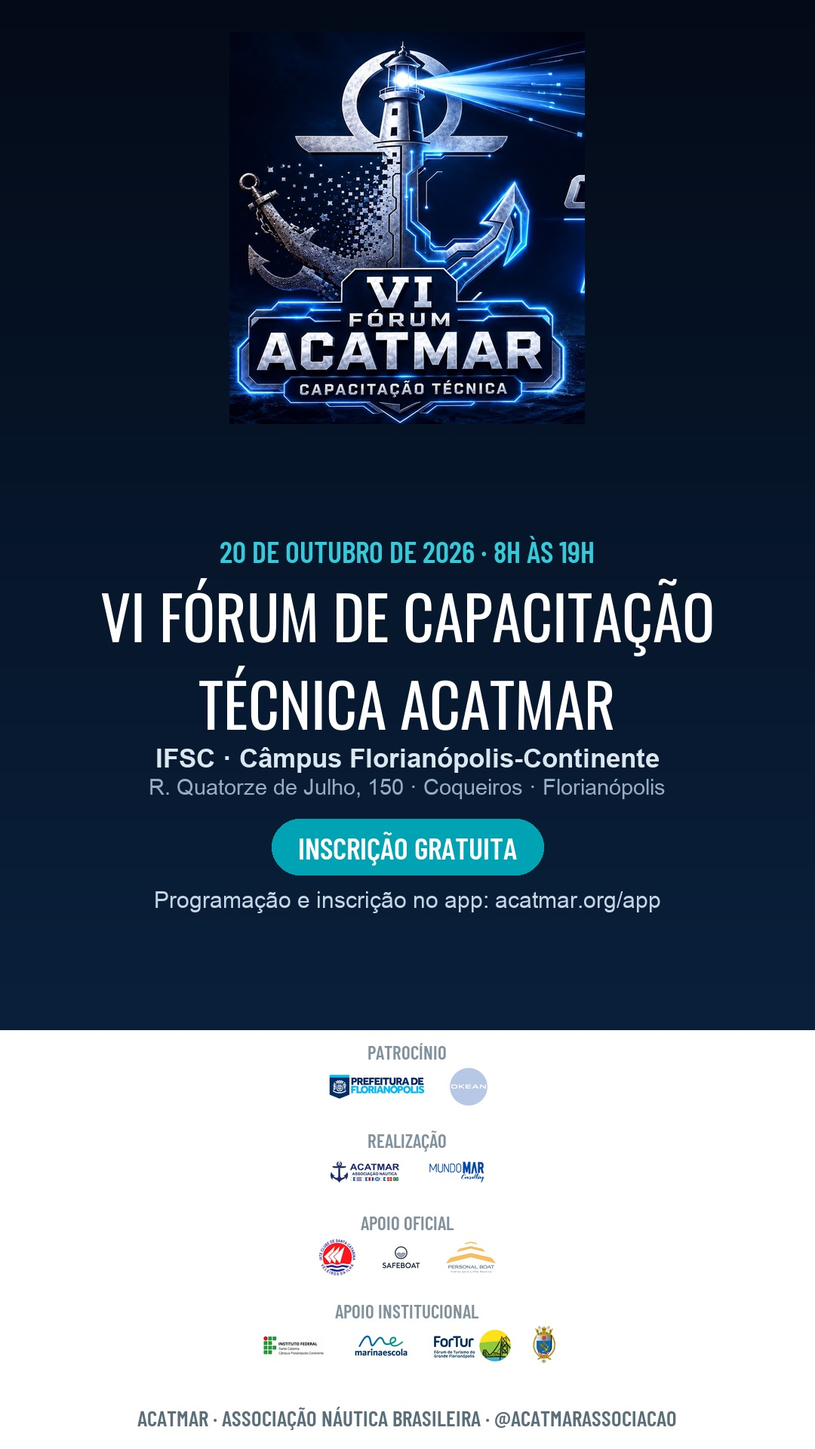
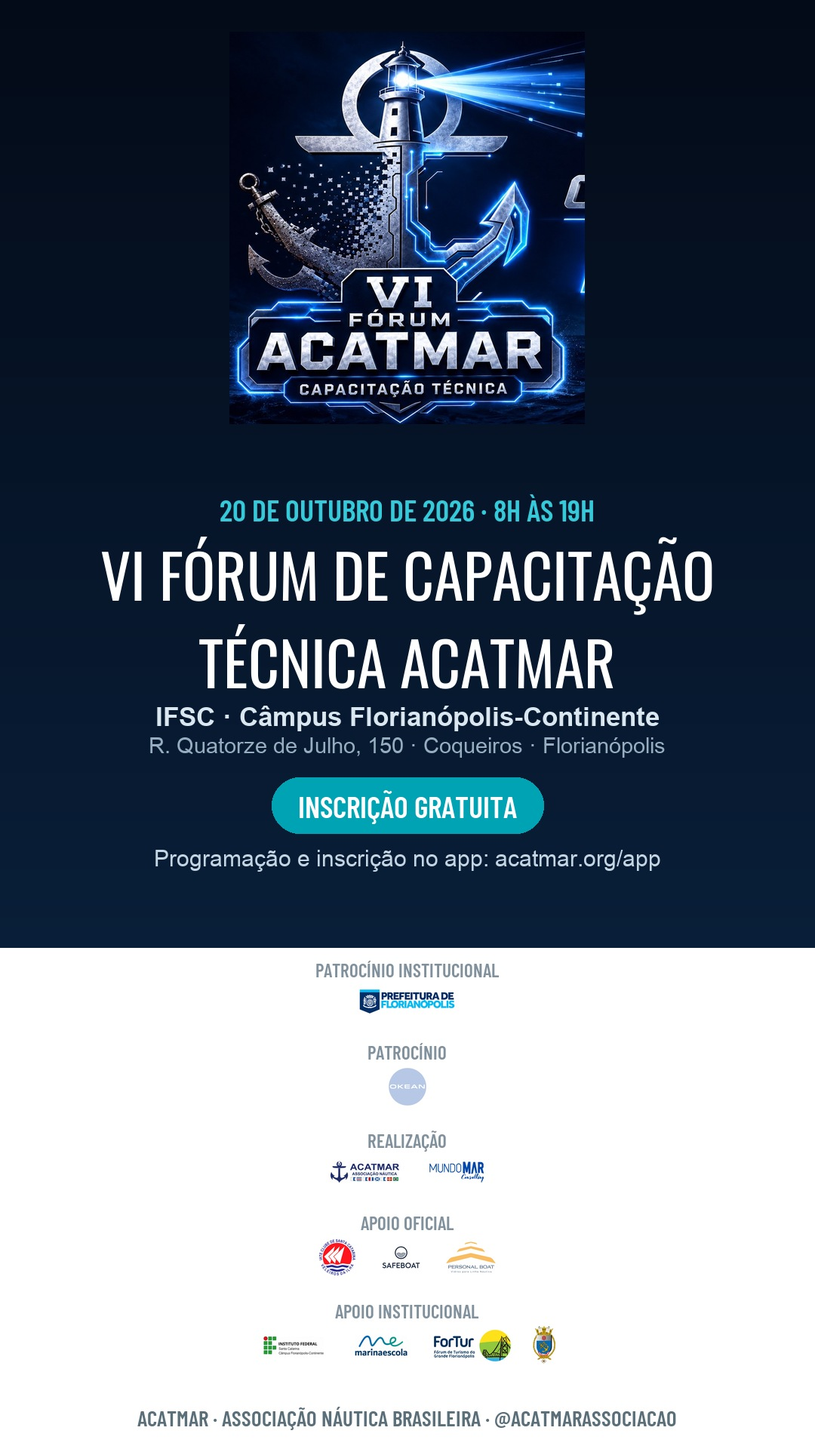
Cotas: Prefeitura como patrocinio institucional sozinha, Okean em seguida

Changed region(s): [[0.0, 0.3438, 1.0, 0.7812]]

diff --git a/n/vi-forum-2026.html b/n/vi-forum-2026.html
@@ -163,7 +163,7 @@
   <a href="/index.html#projetos" data-en="Projects">Projetos</a><a href="numeros.html" data-en="Numbers">Números</a>
   <a href="/associe-se.html" data-en="Join us">Associe-se</a>
 </div>
-<article class="art"><a class="back" href="/noticias.html">← Todas as notícias</a><div><span class="cat">Capacitação</span></div><h1 class="title">VI Fórum de Capacitação Técnica ACATMAR: inscrições abertas para a imersão de outubro de 2026</h1><div class="meta">16 de agosto de 2026</div><img class="hero-img" src="/media/noticias/vi-forum-2026.jpg" alt="VI Fórum de Capacitação Técnica ACATMAR: inscrições abertas para a imersão de outubro de 2026"><div class="credito">Foto: Divulgação / ACATMAR</div><a class="more-link" href="https://www.acatmar.org/vi-forum-2026.html" target="_blank" rel="noopener">Quero me inscrever →</a><div class="body"><p>A ACATMAR já está preparando o VI Fórum de Capacitação Técnica, que acontece em outubro de 2026, e as inscrições já estão abertas.</p><p><b>Onde e quando</b></p><p>O VI Fórum acontece na terça-feira, 20 de outubro de 2026, das 8h às 19h, no IFSC — Câmpus Florianópolis-Continente (R. Quatorze de Julho, 150, Coqueiros, Florianópolis/SC).</p><p>Será um dia inteiro de imersão em conhecimento náutico, com palestras técnicas que trazem inovação e as novas tecnologias do setor. Um encontro pensado tanto para quem já trabalha e vive a náutica quanto, principalmente, para quem ainda não é do setor e quer entrar nele.</p><p><b>Conhecimento de quem faz o setor acontecer</b></p><p>O Fórum reúne vários palestrantes da cadeia produtiva, técnicos e especialistas, para requalificar mão de obra, passar conhecimento e acelerar o aprendizado. É a chance de aprender com quem vive o dia a dia da indústria, do comércio, dos serviços e do turismo náutico.</p><p><b>Este é o grande momento</b></p><p>Se você quer vir trabalhar no setor, já trabalha ou vive o setor, este é o grande momento. A inscrição é gratuita e as vagas são limitadas.</p><p>Para se inscrever, é só clicar no botão "Quero me inscrever" e deixar seu nome, e-mail e WhatsApp. Assim que a programação, a data e os detalhes forem confirmados, enviamos tudo para você em primeira mão.</p><p>O VI Fórum de Capacitação Técnica ACATMAR tem patrocínio da <b>Prefeitura Municipal de Florianópolis</b>, como patrocinadora institucional, e da Okean Yachts. A realização é da ACATMAR, da Mundo Mar Consulting e do IFSC.</p><p><div style="background:#fff;border:1px solid #e3e8ee;border-radius:14px;padding:20px 16px 6px;margin:1.8rem 0;text-align:center"><div style="font-family:'Oswald',sans-serif;font-weight:600;text-transform:uppercase;color:#0a2540;font-size:1.05rem;letter-spacing:.03em;margin-bottom:1.3rem">Quem faz o VI Fórum acontecer</div><div style="margin-bottom:1.5rem"><p style="margin:0 0 .7rem;font-family:'Barlow Condensed',sans-serif;font-size:.82rem;letter-spacing:.14em;text-transform:uppercase;color:#5b6f7a">Patrocínio</p><img loading="lazy" src="media/logos/vi-forum-patrocinio-v3.png" alt="Patrocínio" style="width:300px;max-width:100%;height:auto;display:block;margin:0 auto"></div><div style="margin-bottom:1.5rem"><p style="margin:0 0 .7rem;font-family:'Barlow Condensed',sans-serif;font-size:.82rem;letter-spacing:.14em;text-transform:uppercase;color:#5b6f7a">Realização</p><img loading="lazy" src="media/logos/vi-forum-realizacao.png" alt="Realização" style="width:300px;max-width:100%;height:auto;display:block;margin:0 auto"></div><div style="margin-bottom:1.5rem"><p style="margin:0 0 .7rem;font-family:'Barlow Condensed',sans-serif;font-size:.82rem;letter-spacing:.14em;text-transform:uppercase;color:#5b6f7a">Apoio oficial</p><img loading="lazy" src="media/logos/vi-forum-apoio.png" alt="Apoio oficial" style="width:320px;max-width:100%;height:auto;display:block;margin:0 auto"></div><div style="margin-bottom:1.5rem"><p style="margin:0 0 .7rem;font-family:'Barlow Condensed',sans-serif;font-size:.82rem;letter-spacing:.14em;text-transform:uppercase;color:#5b6f7a">Apoio institucional</p><img loading="lazy" src="media/logos/vi-forum-apoio-institucional.png" alt="Apoio institucional" style="width:340px;max-width:100%;height:auto;display:block;margin:0 auto"></div></div></p></div><a class="more-link" href="https://www.acatmar.org/vi-forum-2026.html" target="_blank" rel="noopener">Quero me inscrever →</a><div class="share"><span>Compartilhar</span><a target="_blank" rel="noopener" href="https://wa.me/?text=VI Fórum de Capacitação Técnica ACATMAR: inscrições abertas para a imersão de outubro de 2026%20https://www.acatmar.org/n/vi-forum-2026.html">WhatsApp</a><a target="_blank" rel="noopener" href="https://www.facebook.com/sharer/sharer.php?u=https://www.acatmar.org/n/vi-forum-2026.html">Facebook</a></div></article>
+<article class="art"><a class="back" href="/noticias.html">← Todas as notícias</a><div><span class="cat">Capacitação</span></div><h1 class="title">VI Fórum de Capacitação Técnica ACATMAR: inscrições abertas para a imersão de outubro de 2026</h1><div class="meta">16 de agosto de 2026</div><img class="hero-img" src="/media/noticias/vi-forum-2026.jpg" alt="VI Fórum de Capacitação Técnica ACATMAR: inscrições abertas para a imersão de outubro de 2026"><div class="credito">Foto: Divulgação / ACATMAR</div><a class="more-link" href="https://www.acatmar.org/vi-forum-2026.html" target="_blank" rel="noopener">Quero me inscrever →</a><div class="body"><p>A ACATMAR já está preparando o VI Fórum de Capacitação Técnica, que acontece em outubro de 2026, e as inscrições já estão abertas.</p><p><b>Onde e quando</b></p><p>O VI Fórum acontece na terça-feira, 20 de outubro de 2026, das 8h às 19h, no IFSC — Câmpus Florianópolis-Continente (R. Quatorze de Julho, 150, Coqueiros, Florianópolis/SC).</p><p>Será um dia inteiro de imersão em conhecimento náutico, com palestras técnicas que trazem inovação e as novas tecnologias do setor. Um encontro pensado tanto para quem já trabalha e vive a náutica quanto, principalmente, para quem ainda não é do setor e quer entrar nele.</p><p><b>Conhecimento de quem faz o setor acontecer</b></p><p>O Fórum reúne vários palestrantes da cadeia produtiva, técnicos e especialistas, para requalificar mão de obra, passar conhecimento e acelerar o aprendizado. É a chance de aprender com quem vive o dia a dia da indústria, do comércio, dos serviços e do turismo náutico.</p><p><b>Este é o grande momento</b></p><p>Se você quer vir trabalhar no setor, já trabalha ou vive o setor, este é o grande momento. A inscrição é gratuita e as vagas são limitadas.</p><p>Para se inscrever, é só clicar no botão "Quero me inscrever" e deixar seu nome, e-mail e WhatsApp. Assim que a programação, a data e os detalhes forem confirmados, enviamos tudo para você em primeira mão.</p><p>O VI Fórum de Capacitação Técnica ACATMAR tem patrocínio da <b>Prefeitura Municipal de Florianópolis</b>, como patrocinadora institucional, e da Okean Yachts. A realização é da ACATMAR, da Mundo Mar Consulting e do IFSC.</p><p><div style="background:#fff;border:1px solid #e3e8ee;border-radius:14px;padding:20px 16px 6px;margin:1.8rem 0;text-align:center"><div style="font-family:'Oswald',sans-serif;font-weight:600;text-transform:uppercase;color:#0a2540;font-size:1.05rem;letter-spacing:.03em;margin-bottom:1.3rem">Quem faz o VI Fórum acontecer</div><div style="margin-bottom:1.5rem"><p style="margin:0 0 .7rem;font-family:'Barlow Condensed',sans-serif;font-size:.82rem;letter-spacing:.14em;text-transform:uppercase;color:#5b6f7a">Patrocínio institucional</p><img loading="lazy" src="media/logos/vi-forum-patrocinio-institucional.png" alt="Patrocínio institucional" style="width:290px;max-width:100%;height:auto;display:block;margin:0 auto"></div><div style="margin-bottom:1.5rem"><p style="margin:0 0 .7rem;font-family:'Barlow Condensed',sans-serif;font-size:.82rem;letter-spacing:.14em;text-transform:uppercase;color:#5b6f7a">Patrocínio</p><img loading="lazy" src="media/logos/vi-forum-patrocinio-okean.png" alt="Patrocínio" style="width:140px;max-width:100%;height:auto;display:block;margin:0 auto"></div><div style="margin-bottom:1.5rem"><p style="margin:0 0 .7rem;font-family:'Barlow Condensed',sans-serif;font-size:.82rem;letter-spacing:.14em;text-transform:uppercase;color:#5b6f7a">Realização</p><img loading="lazy" src="media/logos/vi-forum-realizacao.png" alt="Realização" style="width:300px;max-width:100%;height:auto;display:block;margin:0 auto"></div><div style="margin-bottom:1.5rem"><p style="margin:0 0 .7rem;font-family:'Barlow Condensed',sans-serif;font-size:.82rem;letter-spacing:.14em;text-transform:uppercase;color:#5b6f7a">Apoio oficial</p><img loading="lazy" src="media/logos/vi-forum-apoio.png" alt="Apoio oficial" style="width:320px;max-width:100%;height:auto;display:block;margin:0 auto"></div><div style="margin-bottom:1.5rem"><p style="margin:0 0 .7rem;font-family:'Barlow Condensed',sans-serif;font-size:.82rem;letter-spacing:.14em;text-transform:uppercase;color:#5b6f7a">Apoio institucional</p><img loading="lazy" src="media/logos/vi-forum-apoio-institucional.png" alt="Apoio institucional" style="width:340px;max-width:100%;height:auto;display:block;margin:0 auto"></div></div></p></div><a class="more-link" href="https://www.acatmar.org/vi-forum-2026.html" target="_blank" rel="noopener">Quero me inscrever →</a><div class="share"><span>Compartilhar</span><a target="_blank" rel="noopener" href="https://wa.me/?text=VI Fórum de Capacitação Técnica ACATMAR: inscrições abertas para a imersão de outubro de 2026%20https://www.acatmar.org/n/vi-forum-2026.html">WhatsApp</a><a target="_blank" rel="noopener" href="https://www.facebook.com/sharer/sharer.php?u=https://www.acatmar.org/n/vi-forum-2026.html">Facebook</a></div></article>
 <section class="related"><h2>Mais notícias</h2><div class="rg"><a class="rc" href="/n/acatmar-ii-forum-nautico-anb-bahia-2026.html"><img loading="lazy" src="/media/noticias/anb-forum-2026-acatmar-delegacao.jpg" alt="ACATMAR participa do 2º Fórum Náutico Internacional da ANB, em Salvador"><div class="b"><div class="d">17 de setembro de 2026</div><h3>ACATMAR participa do 2º Fórum Náutico Internacional da ANB, em Salvador</h3></div></a><a class="rc" href="/n/limpeza-dos-mares-205-toneladas-agenda-2026.html"><img loading="lazy" src="/media/noticias/limpeza-mares.jpg" alt="205 toneladas retiradas do mar em 12 anos: por que o Limpeza dos Mares importa para o setor náutico"><div class="b"><div class="d">15 de setembro de 2026</div><h3>205 toneladas retiradas do mar em 12 anos: por que o Limpeza dos Mares importa para o setor náutico</h3></div></a><a class="rc" href="/n/alerta-golpe-cartao-clonado-lojas-nauticas.html"><img loading="lazy" src="/media/noticias/alerta-golpe-cartao-clonado-lojas-nauticas.jpg" alt="Alerta ao setor: golpe do cartão clonado mira lojas náuticas em Santa Catarina"><div class="b"><div class="d">15 de setembro de 2026</div><h3>Alerta ao setor: golpe do cartão clonado mira lojas náuticas em Santa Catarina</h3></div></a></div></section>
 <footer>
   <div class="fwrap">

diff --git a/en/n/vi-forum-2026.html b/en/n/vi-forum-2026.html
@@ -163,7 +163,7 @@
   <a href="/index.html#projetos" data-en="Projects">Projetos</a><a href="numeros.html" data-en="Numbers">Números</a>
   <a href="/associe-se.html" data-en="Join us">Associe-se</a>
 </div>
-<article class="art"><a class="back" href="/en/news.html">← All news</a><div><span class="cat">Training</span></div><h1 class="title">VI ACATMAR Technical Training Forum: registration open for the October 2026 immersion</h1><div class="meta">August 16, 2026</div><img class="hero-img" src="/media/noticias/vi-forum-2026.jpg" alt="VI ACATMAR Technical Training Forum: registration open for the October 2026 immersion"><div class="credito">Photo: Divulgação / ACATMAR</div><a class="more-link" href="https://www.acatmar.org/vi-forum-2026.html" target="_blank" rel="noopener">I want to register →</a><div class="body"><p>ACATMAR is already preparing the VI Technical Training Forum, taking place in October 2026, and registration is now open.</p><p><b>Where and when</b></p><p>The VI Forum takes place on Tuesday, October 20, 2026, from 8am to 7pm, at IFSC — Florianópolis-Continente Campus (R. Quatorze de Julho, 150, Coqueiros, Florianópolis/SC).</p><p>It will be a full day of immersion in nautical knowledge, with technical talks bringing innovation and the sector's new technologies. A gathering designed both for those who already work in and live boating and, above all, for those who are not yet in the sector and want to get in.</p><p><b>Knowledge from those who make the sector happen</b></p><p>The Forum brings together several speakers from the production chain, technicians and specialists, to requalify the workforce, share knowledge and speed up learning. It is the chance to learn from those who live the day-to-day of industry, trade, services and nautical tourism.</p><p><b>This is the moment</b></p><p>Whether you want to work in the sector, already work in it or live it, this is the moment. Registration is free and spots are limited.</p><p>To register, just click the "I want to register" button and leave your name, e-mail and WhatsApp. As soon as the program, date and details are confirmed, we will send everything to you first-hand.</p><p>The VI ACATMAR Technical Training Forum is sponsored by the <b>City of Florianópolis</b>, as institutional sponsor, and by Okean Yachts. It is organised by ACATMAR, Mundo Mar Consulting and IFSC.</p><p><div style="background:#fff;border:1px solid #e3e8ee;border-radius:14px;padding:20px 16px 6px;margin:1.8rem 0;text-align:center"><div style="font-family:'Oswald',sans-serif;font-weight:600;text-transform:uppercase;color:#0a2540;font-size:1.05rem;letter-spacing:.03em;margin-bottom:1.3rem">Who makes the VI Forum happen</div><div style="margin-bottom:1.5rem"><p style="margin:0 0 .7rem;font-family:'Barlow Condensed',sans-serif;font-size:.82rem;letter-spacing:.14em;text-transform:uppercase;color:#5b6f7a">Sponsorship</p><img loading="lazy" src="media/logos/vi-forum-patrocinio-v3.png" alt="Sponsorship" style="width:300px;max-width:100%;height:auto;display:block;margin:0 auto"></div><div style="margin-bottom:1.5rem"><p style="margin:0 0 .7rem;font-family:'Barlow Condensed',sans-serif;font-size:.82rem;letter-spacing:.14em;text-transform:uppercase;color:#5b6f7a">Organization</p><img loading="lazy" src="media/logos/vi-forum-realizacao.png" alt="Organization" style="width:300px;max-width:100%;height:auto;display:block;margin:0 auto"></div><div style="margin-bottom:1.5rem"><p style="margin:0 0 .7rem;font-family:'Barlow Condensed',sans-serif;font-size:.82rem;letter-spacing:.14em;text-transform:uppercase;color:#5b6f7a">Official support</p><img loading="lazy" src="media/logos/vi-forum-apoio.png" alt="Official support" style="width:320px;max-width:100%;height:auto;display:block;margin:0 auto"></div><div style="margin-bottom:1.5rem"><p style="margin:0 0 .7rem;font-family:'Barlow Condensed',sans-serif;font-size:.82rem;letter-spacing:.14em;text-transform:uppercase;color:#5b6f7a">Institutional support</p><img loading="lazy" src="media/logos/vi-forum-apoio-institucional.png" alt="Institutional support" style="width:340px;max-width:100%;height:auto;display:block;margin:0 auto"></div></div></p></div><a class="more-link" href="https://www.acatmar.org/vi-forum-2026.html" target="_blank" rel="noopener">I want to register →</a><div class="share"><span>Share</span><a target="_blank" rel="noopener" href="https://wa.me/?text=VI ACATMAR Technical Training Forum: registration open for the October 2026 immersion%20https://www.acatmar.org/en/n/vi-forum-2026.html">WhatsApp</a><a target="_blank" rel="noopener" href="https://www.facebook.com/sharer/sharer.php?u=https://www.acatmar.org/en/n/vi-forum-2026.html">Facebook</a></div></article>
+<article class="art"><a class="back" href="/en/news.html">← All news</a><div><span class="cat">Training</span></div><h1 class="title">VI ACATMAR Technical Training Forum: registration open for the October 2026 immersion</h1><div class="meta">August 16, 2026</div><img class="hero-img" src="/media/noticias/vi-forum-2026.jpg" alt="VI ACATMAR Technical Training Forum: registration open for the October 2026 immersion"><div class="credito">Photo: Divulgação / ACATMAR</div><a class="more-link" href="https://www.acatmar.org/vi-forum-2026.html" target="_blank" rel="noopener">I want to register →</a><div class="body"><p>ACATMAR is already preparing the VI Technical Training Forum, taking place in October 2026, and registration is now open.</p><p><b>Where and when</b></p><p>The VI Forum takes place on Tuesday, October 20, 2026, from 8am to 7pm, at IFSC — Florianópolis-Continente Campus (R. Quatorze de Julho, 150, Coqueiros, Florianópolis/SC).</p><p>It will be a full day of immersion in nautical knowledge, with technical talks bringing innovation and the sector's new technologies. A gathering designed both for those who already work in and live boating and, above all, for those who are not yet in the sector and want to get in.</p><p><b>Knowledge from those who make the sector happen</b></p><p>The Forum brings together several speakers from the production chain, technicians and specialists, to requalify the workforce, share knowledge and speed up learning. It is the chance to learn from those who live the day-to-day of industry, trade, services and nautical tourism.</p><p><b>This is the moment</b></p><p>Whether you want to work in the sector, already work in it or live it, this is the moment. Registration is free and spots are limited.</p><p>To register, just click the "I want to register" button and leave your name, e-mail and WhatsApp. As soon as the program, date and details are confirmed, we will send everything to you first-hand.</p><p>The VI ACATMAR Technical Training Forum is sponsored by the <b>City of Florianópolis</b>, as institutional sponsor, and by Okean Yachts. It is organised by ACATMAR, Mundo Mar Consulting and IFSC.</p><p><div style="background:#fff;border:1px solid #e3e8ee;border-radius:14px;padding:20px 16px 6px;margin:1.8rem 0;text-align:center"><div style="font-family:'Oswald',sans-serif;font-weight:600;text-transform:uppercase;color:#0a2540;font-size:1.05rem;letter-spacing:.03em;margin-bottom:1.3rem">Who makes the VI Forum happen</div><div style="margin-bottom:1.5rem"><p style="margin:0 0 .7rem;font-family:'Barlow Condensed',sans-serif;font-size:.82rem;letter-spacing:.14em;text-transform:uppercase;color:#5b6f7a">Institutional sponsor</p><img loading="lazy" src="media/logos/vi-forum-patrocinio-institucional.png" alt="Institutional sponsor" style="width:290px;max-width:100%;height:auto;display:block;margin:0 auto"></div><div style="margin-bottom:1.5rem"><p style="margin:0 0 .7rem;font-family:'Barlow Condensed',sans-serif;font-size:.82rem;letter-spacing:.14em;text-transform:uppercase;color:#5b6f7a">Sponsorship</p><img loading="lazy" src="media/logos/vi-forum-patrocinio-okean.png" alt="Sponsorship" style="width:140px;max-width:100%;height:auto;display:block;margin:0 auto"></div><div style="margin-bottom:1.5rem"><p style="margin:0 0 .7rem;font-family:'Barlow Condensed',sans-serif;font-size:.82rem;letter-spacing:.14em;text-transform:uppercase;color:#5b6f7a">Organization</p><img loading="lazy" src="media/logos/vi-forum-realizacao.png" alt="Organization" style="width:300px;max-width:100%;height:auto;display:block;margin:0 auto"></div><div style="margin-bottom:1.5rem"><p style="margin:0 0 .7rem;font-family:'Barlow Condensed',sans-serif;font-size:.82rem;letter-spacing:.14em;text-transform:uppercase;color:#5b6f7a">Official support</p><img loading="lazy" src="media/logos/vi-forum-apoio.png" alt="Official support" style="width:320px;max-width:100%;height:auto;display:block;margin:0 auto"></div><div style="margin-bottom:1.5rem"><p style="margin:0 0 .7rem;font-family:'Barlow Condensed',sans-serif;font-size:.82rem;letter-spacing:.14em;text-transform:uppercase;color:#5b6f7a">Institutional support</p><img loading="lazy" src="media/logos/vi-forum-apoio-institucional.png" alt="Institutional support" style="width:340px;max-width:100%;height:auto;display:block;margin:0 auto"></div></div></p></div><a class="more-link" href="https://www.acatmar.org/vi-forum-2026.html" target="_blank" rel="noopener">I want to register →</a><div class="share"><span>Share</span><a target="_blank" rel="noopener" href="https://wa.me/?text=VI ACATMAR Technical Training Forum: registration open for the October 2026 immersion%20https://www.acatmar.org/en/n/vi-forum-2026.html">WhatsApp</a><a target="_blank" rel="noopener" href="https://www.facebook.com/sharer/sharer.php?u=https://www.acatmar.org/en/n/vi-forum-2026.html">Facebook</a></div></article>
 <section class="related"><h2>More news</h2><div class="rg"><a class="rc" href="/en/n/acatmar-ii-forum-nautico-anb-bahia-2026.html"><img loading="lazy" src="/media/noticias/anb-forum-2026-acatmar-delegacao.jpg" alt="ACATMAR takes part in the 2nd ANB International Nautical Forum in Salvador"><div class="b"><div class="d">September 17, 2026</div><h3>ACATMAR takes part in the 2nd ANB International Nautical Forum in Salvador</h3></div></a><a class="rc" href="/en/n/limpeza-dos-mares-205-toneladas-agenda-2026.html"><img loading="lazy" src="/media/noticias/limpeza-mares.jpg" alt="205 tonnes taken from the sea in 12 years: why Limpeza dos Mares matters to the nautical sector"><div class="b"><div class="d">September 15, 2026</div><h3>205 tonnes taken from the sea in 12 years: why Limpeza dos Mares matters to the nautical sector</h3></div></a><a class="rc" href="/en/n/alerta-golpe-cartao-clonado-lojas-nauticas.html"><img loading="lazy" src="/media/noticias/alerta-golpe-cartao-clonado-lojas-nauticas.jpg" alt="Alert to the sector: cloned card scam targets nautical stores in Santa Catarina"><div class="b"><div class="d">September 15, 2026</div><h3>Alert to the sector: cloned card scam targets nautical stores in Santa Catarina</h3></div></a></div></section>
 <footer>
   <div class="fwrap">

diff --git a/app/app.js b/app/app.js
@@ -61,7 +61,7 @@ function home(){
   else cd='<div class="tag" style="background:var(--teal);color:#fff;margin-top:12px">Edição realizada. Obrigado por participar!</div>';
   var unread=unreadAvisos();
   var av=D.avisos.slice(0,2).map(avisoCard).join('');
-  var spons=D.patrocinadores.map(function(c,i){var modo=i===0?'grande':(i===1?'medio':(c.cota==='Apoio institucional'?'duplo':'lado'));return '<div class="strip-cota strip-'+modo+'"><span>'+esc(c.cota)+'</span><div>'+c.empresas.map(function(p){var sc=Math.round((p.escala||1)*100);return '<a href="#/patrocinadores">'+(p.logo?'<img src="'+p.logo+'" alt="'+esc(p.nome)+'" style="max-height:'+sc+'%;max-width:'+sc+'%">':'<span class="logo-txt logo-txt-sm">'+esc(p.nome)+'</span>')+'</a>';}).join('')+'</div></div>';}).join('');
+  var spons=D.patrocinadores.map(function(c,i){var modo={'Patrocínio institucional':'grande','Patrocínio':'grande','Realização':'medio','Apoio institucional':'duplo'}[c.cota]||'lado';return '<div class="strip-cota strip-'+modo+'"><span>'+esc(c.cota)+'</span><div>'+c.empresas.map(function(p){var sc=Math.round((p.escala||1)*100);return '<a href="#/patrocinadores">'+(p.logo?'<img src="'+p.logo+'" alt="'+esc(p.nome)+'" style="max-height:'+sc+'%;max-width:'+sc+'%">':'<span class="logo-txt logo-txt-sm">'+esc(p.nome)+'</span>')+'</a>';}).join('')+'</div></div>';}).join('');
   var regBtn=st==='antes'?'<a class="btn btn-teal btn-block" href="#/inscricao">'+(LS.get('inscrito',null)?'✅ Inscrito · ver programação':'Inscrição gratuita')+'</a>':'';
   h('<section class="hero"><div class="hero-top"><img src="media/emblema-v2.jpg" alt="VI Fórum ACATMAR"><div><p class="kicker">'+esc(e.edicao)+' · '+esc(e.mote)+'</p><h1>'+esc(e.nome)+'</h1></div></div><div class="hero-in"><p>'+esc(e.data_texto)+' · '+esc(e.horario_texto)+'</p>'+cd+'</div></section>'
    +'<div class="quick"><a href="#/programacao"><i>🗓</i>Programação</a><a href="#/local"><i>📍</i>Local</a><a href="#/credencial"><i>🎫</i>Credencial</a><a href="#/interagir"><i>💬</i>Interagir</a></div>'

diff --git a/vi-forum-2026.html b/vi-forum-2026.html
@@ -154,8 +154,12 @@
   <section class="creditos-forum"><div class="creditos-inner">
     <h2 class="creditos-titulo" data-en="Who makes the VI Forum happen">Quem faz o VI Fórum acontecer</h2>
     <div class="creditos-bloco">
+      <p class="creditos-rotulo" data-en="Institutional sponsor">Patrocínio institucional</p>
+      <img class="creditos-logo creditos-patrocinio" loading="lazy" src="media/logos/vi-forum-patrocinio-institucional.png" alt="Prefeitura Municipal de Florianópolis">
+    </div>
+    <div class="creditos-bloco">
       <p class="creditos-rotulo" data-en="Sponsorship">Patrocínio</p>
-      <img class="creditos-logo creditos-patrocinio" loading="lazy" src="media/logos/vi-forum-patrocinio-v3.png" alt="Prefeitura Municipal de Florianópolis e Okean Yachts">
+      <img class="creditos-logo creditos-okean" loading="lazy" src="media/logos/vi-forum-patrocinio-okean.png" alt="Okean Yachts">
     </div>
     <div class="creditos-bloco">
       <p class="creditos-rotulo" data-en="Organization">Realização</p>

diff --git a/app/app.css b/app/app.css
@@ -139,6 +139,7 @@ h1,h2,h3{font-family:var(--f-head);text-transform:uppercase;letter-spacing:.02em
 .strip-cota img{width:auto;height:auto;object-fit:contain}
 .strip-grande>div{flex-direction:column;gap:18px}
 .strip-grande a{width:80%;height:96px}
+.strip-cota+.strip-cota .strip-grande a,.strip-grande+.strip-grande a{height:86px}
 .strip-medio>div{gap:16px 8%}
 .strip-medio a{flex:0 0 42%;max-width:42%;height:76px}
 .strip-lado a{flex:0 0 30%;max-width:30%;height:70px}

diff --git a/en/numbers.html b/en/numbers.html
@@ -403,6 +403,7 @@ html.locked .ufs{display:none}
 
 
 
+
 <link rel="alternate" hreflang="pt-BR" href="https://www.acatmar.org/numeros">
 <link rel="alternate" hreflang="en" href="https://www.acatmar.org/en/numbers">
 <link rel="alternate" hreflang="x-default" href="https://www.acatmar.org/numeros">

diff --git a/numeros.html b/numeros.html
@@ -403,6 +403,7 @@ html.locked .ufs{display:none}
 
 
 
+
 <link rel="alternate" hreflang="pt-BR" href="https://www.acatmar.org/numeros">
 <link rel="alternate" hreflang="en" href="https://www.acatmar.org/en/numbers">
 <link rel="alternate" hreflang="x-default" href="https://www.acatmar.org/numeros">

diff --git a/en/privacy-policy.html b/en/privacy-policy.html
@@ -291,6 +291,7 @@
 
 
 
+
 <link rel="alternate" hreflang="pt-BR" href="https://www.acatmar.org/privacidade.html">
 <link rel="alternate" hreflang="en" href="https://www.acatmar.org/en/privacy-policy.html">
 <link rel="alternate" hreflang="x-default" href="https://www.acatmar.org/privacidade.html">

diff --git a/privacidade.html b/privacidade.html
@@ -291,6 +291,7 @@
 
 
 
+
 <link rel="alternate" hreflang="pt-BR" href="https://www.acatmar.org/privacidade.html">
 <link rel="alternate" hreflang="en" href="https://www.acatmar.org/en/privacy-policy.html">
 <link rel="alternate" hreflang="x-default" href="https://www.acatmar.org/privacidade.html">

diff --git a/cookies.html b/cookies.html
@@ -292,6 +292,7 @@
 
 
 
+
 <link rel="alternate" hreflang="pt-BR" href="https://www.acatmar.org/cookies.html">
 <link rel="alternate" hreflang="en" href="https://www.acatmar.org/en/cookie-policy.html">
 <link rel="alternate" hreflang="x-default" href="https://www.acatmar.org/cookies.html">

diff --git a/en/cookie-policy.html b/en/cookie-policy.html
@@ -292,6 +292,7 @@
 
 
 
+
 <link rel="alternate" hreflang="pt-BR" href="https://www.acatmar.org/cookies.html">
 <link rel="alternate" hreflang="en" href="https://www.acatmar.org/en/cookie-policy.html">
 <link rel="alternate" hreflang="x-default" href="https://www.acatmar.org/cookies.html">

diff --git a/en/thank-you.html b/en/thank-you.html
@@ -250,6 +250,7 @@
 
 
 
+
 <link rel="alternate" hreflang="pt-BR" href="https://www.acatmar.org/obrigado.html">
 <link rel="alternate" hreflang="en" href="https://www.acatmar.org/en/thank-you.html">
 <link rel="alternate" hreflang="x-default" href="https://www.acatmar.org/obrigado.html">
